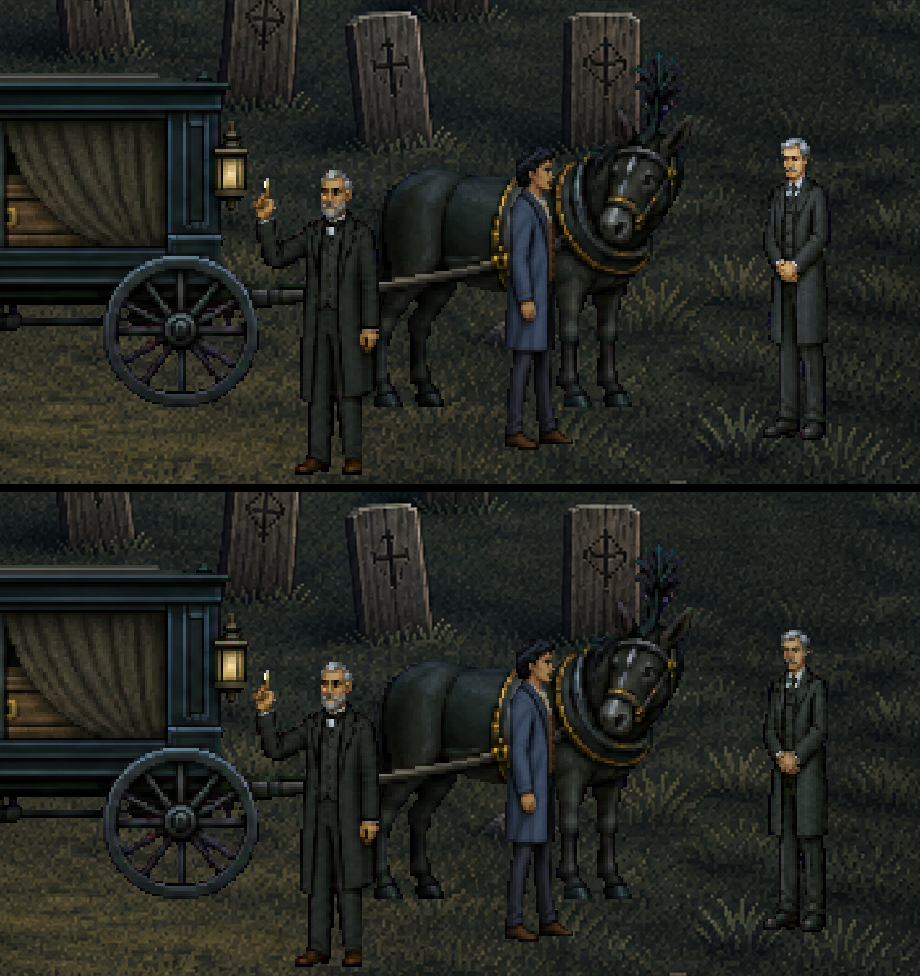
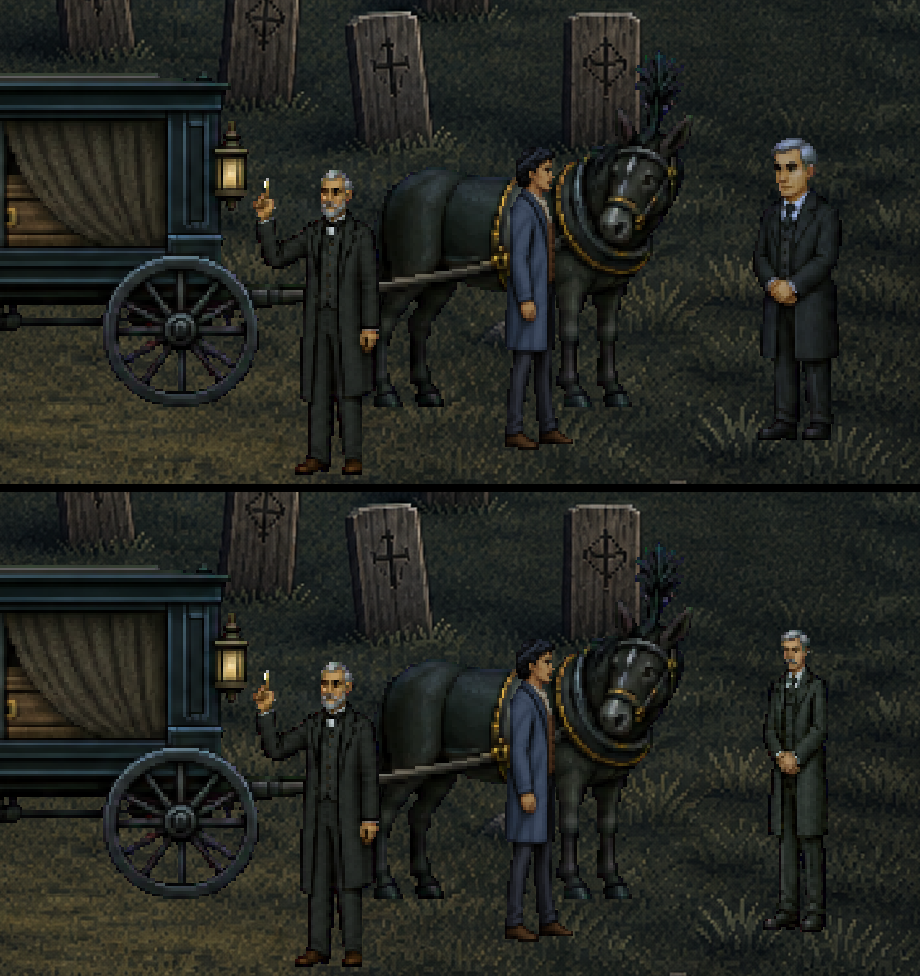
The gate render's "before" is the original undertaker, from main
Tyler, 2026-11-19, of renders/room-14-undertaker-at-the-gate.png: "What's
the difference between the top and bottom pictures?" The render took its
"before" from HEAD, which by then held an earlier redraw, so both rows
showed the new small head. It now defaults to origin/main (the original
drawing); sowerby-scene.py had the same default and is changed the same
way. Re-rendered.

Lesson: a before/after render reads its "before" from the branch's base
(origin/main), never HEAD -- both render tools now say so in their
docstrings and default to it.

Claude-Session: https://claude.ai/code/session_01FXbCupzwLJAEr7fqqWYP8A

Changed region(s): [[0.8217, 0.123, 0.913, 0.4611]]

diff --git a/tools/art/undertaker-gate.py b/tools/art/undertaker-gate.py
@@ -3,7 +3,9 @@ guy on the far right still has a big head?"). No image operation.
 
 Boot Hill at game size as the stalled procession (T_PROCESSION_STALLED) places it: the hearse, the Reverend and the
 undertaker (procession_undertaker, frame 0), with Thad beside the undertaker. The mourners stand at the far left,
-outside the crop. Above, the undertaker's hill sheet as git HEAD has it; below, the sheet on disk.
+outside the crop. Above, the undertaker's hill sheet as origin/main has it (the drawing before this redraw);
+below, the sheet on disk. HEAD was the default, and once the branch held a redrawn sheet the "before" was an earlier
+redraw, not the original (Tyler, 2026-11-19: "What's the difference between the top and bottom pictures?").
 
   python3 tools/art/undertaker-gate.py [--rev REV]     writes renders/room-14-undertaker-at-the-gate.png
 """
@@ -15,7 +17,7 @@ R = lambda p: os.path.join(ROOT, p)
 mc = {'__file__': R('tools/art/memorial-crowd-cut.py'), '__name__': 'helpers'}
 exec(open(mc['__file__']).read().rsplit("\nif __name__ == '__main__':", 1)[0], mc)
 bt, place = mc['bt'], mc['place']
-REV = sys.argv[sys.argv.index('--rev') + 1] if '--rev' in sys.argv else 'HEAD'
+REV = sys.argv[sys.argv.index('--rev') + 1] if '--rev' in sys.argv else 'origin/main'
 
 
 def frame0(rec, sheet=None):

diff --git a/tools/art/sowerby-scene.py b/tools/art/sowerby-scene.py
@@ -3,7 +3,7 @@ of place"; "All six sheets"). No image operation.
 
 Boot Hill at game size, as tools/art/memorial-crowd-cut.py draws it: the Reverend at the gate (sowerby_gate, frame 0),
 Colonel Fanshawe, the redrawn mourners (art/staging/memorial-crowd/rest-cut.png, not yet wired), the collection plate
-and Thad. Above, the Reverend's sheet as git HEAD has it; below, the sheet on disk.
+and Thad. Above, the Reverend's sheet as origin/main has it; below, the sheet on disk.
 
   python3 tools/art/sowerby-scene.py [--rev REV]      writes renders/room-14-reverend-in-the-scene.png
 """
@@ -15,7 +15,7 @@ R = lambda p: os.path.join(ROOT, p)
 mc = {'__file__': R('tools/art/memorial-crowd-cut.py'), '__name__': 'helpers'}
 exec(open(mc['__file__']).read().rsplit("\nif __name__ == '__main__':", 1)[0], mc)
 bt, place = mc['bt'], mc['place']
-REV = sys.argv[sys.argv.index('--rev') + 1] if '--rev' in sys.argv else 'HEAD'
+REV = sys.argv[sys.argv.index('--rev') + 1] if '--rev' in sys.argv else 'origin/main'   # HEAD showed an earlier redraw as "before" once a branch held one
 
 
 def main():
